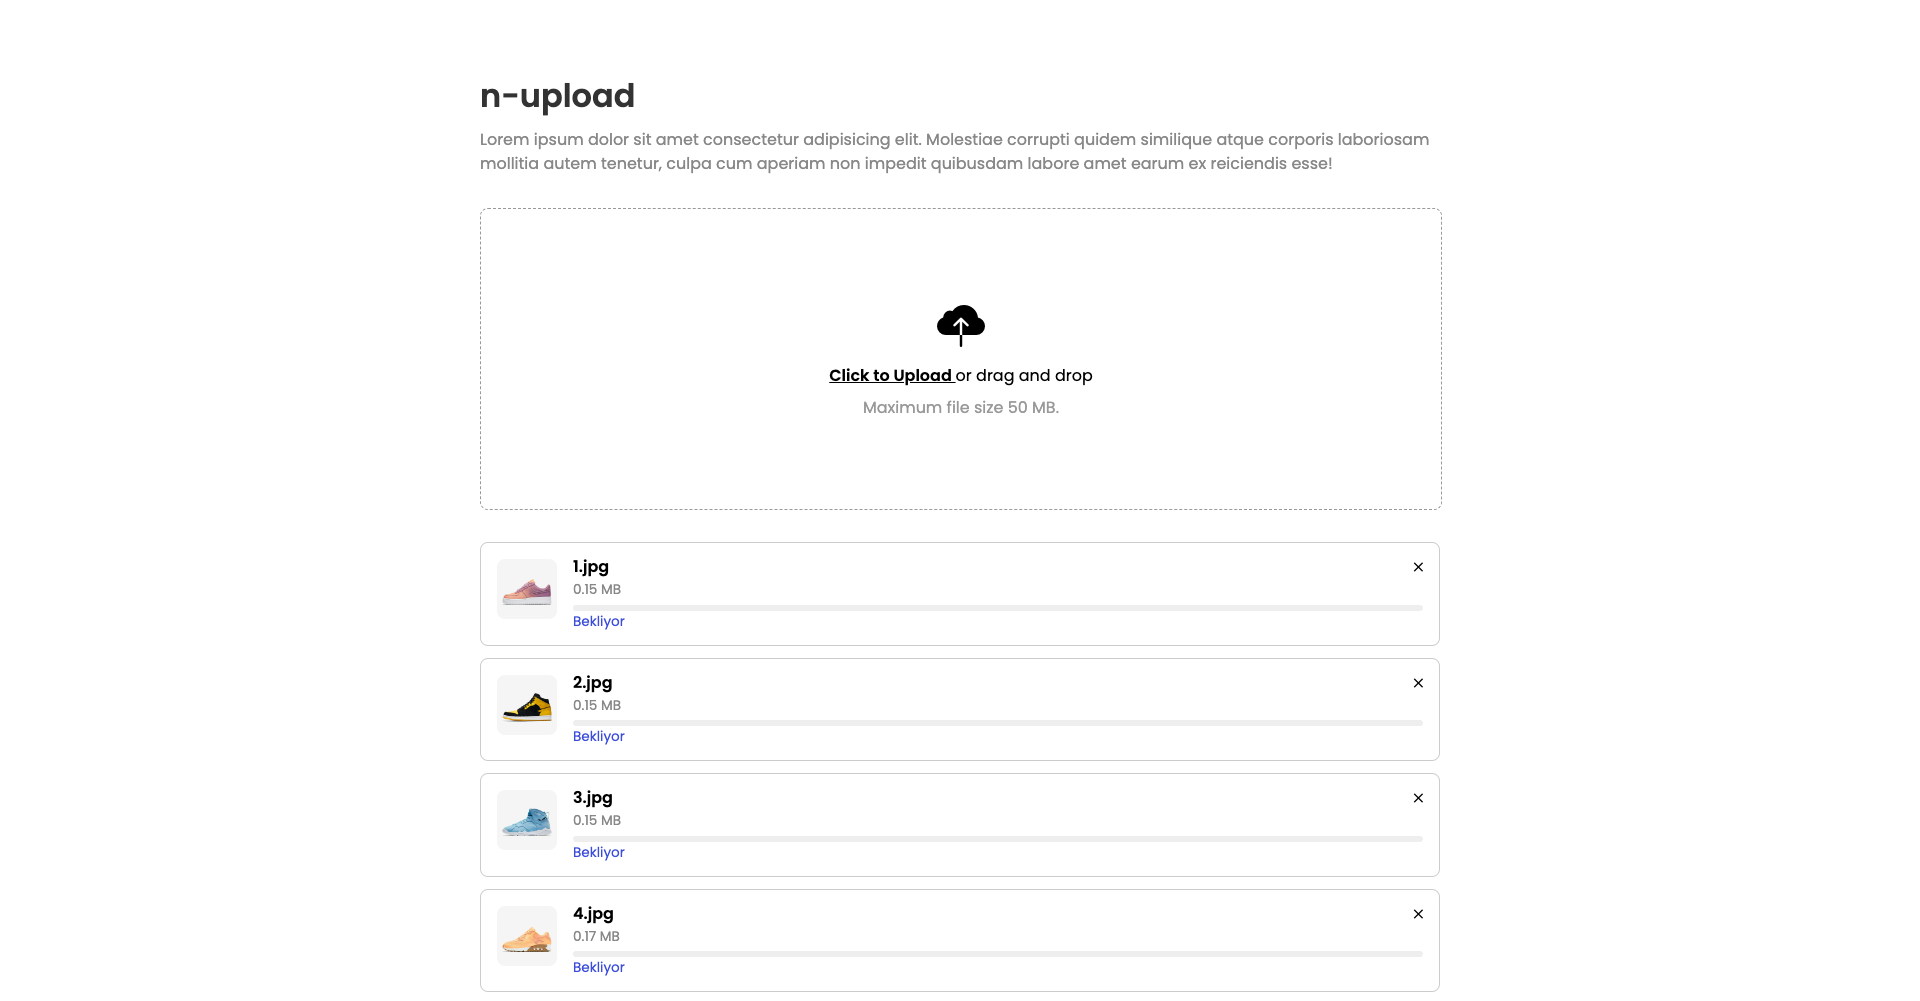
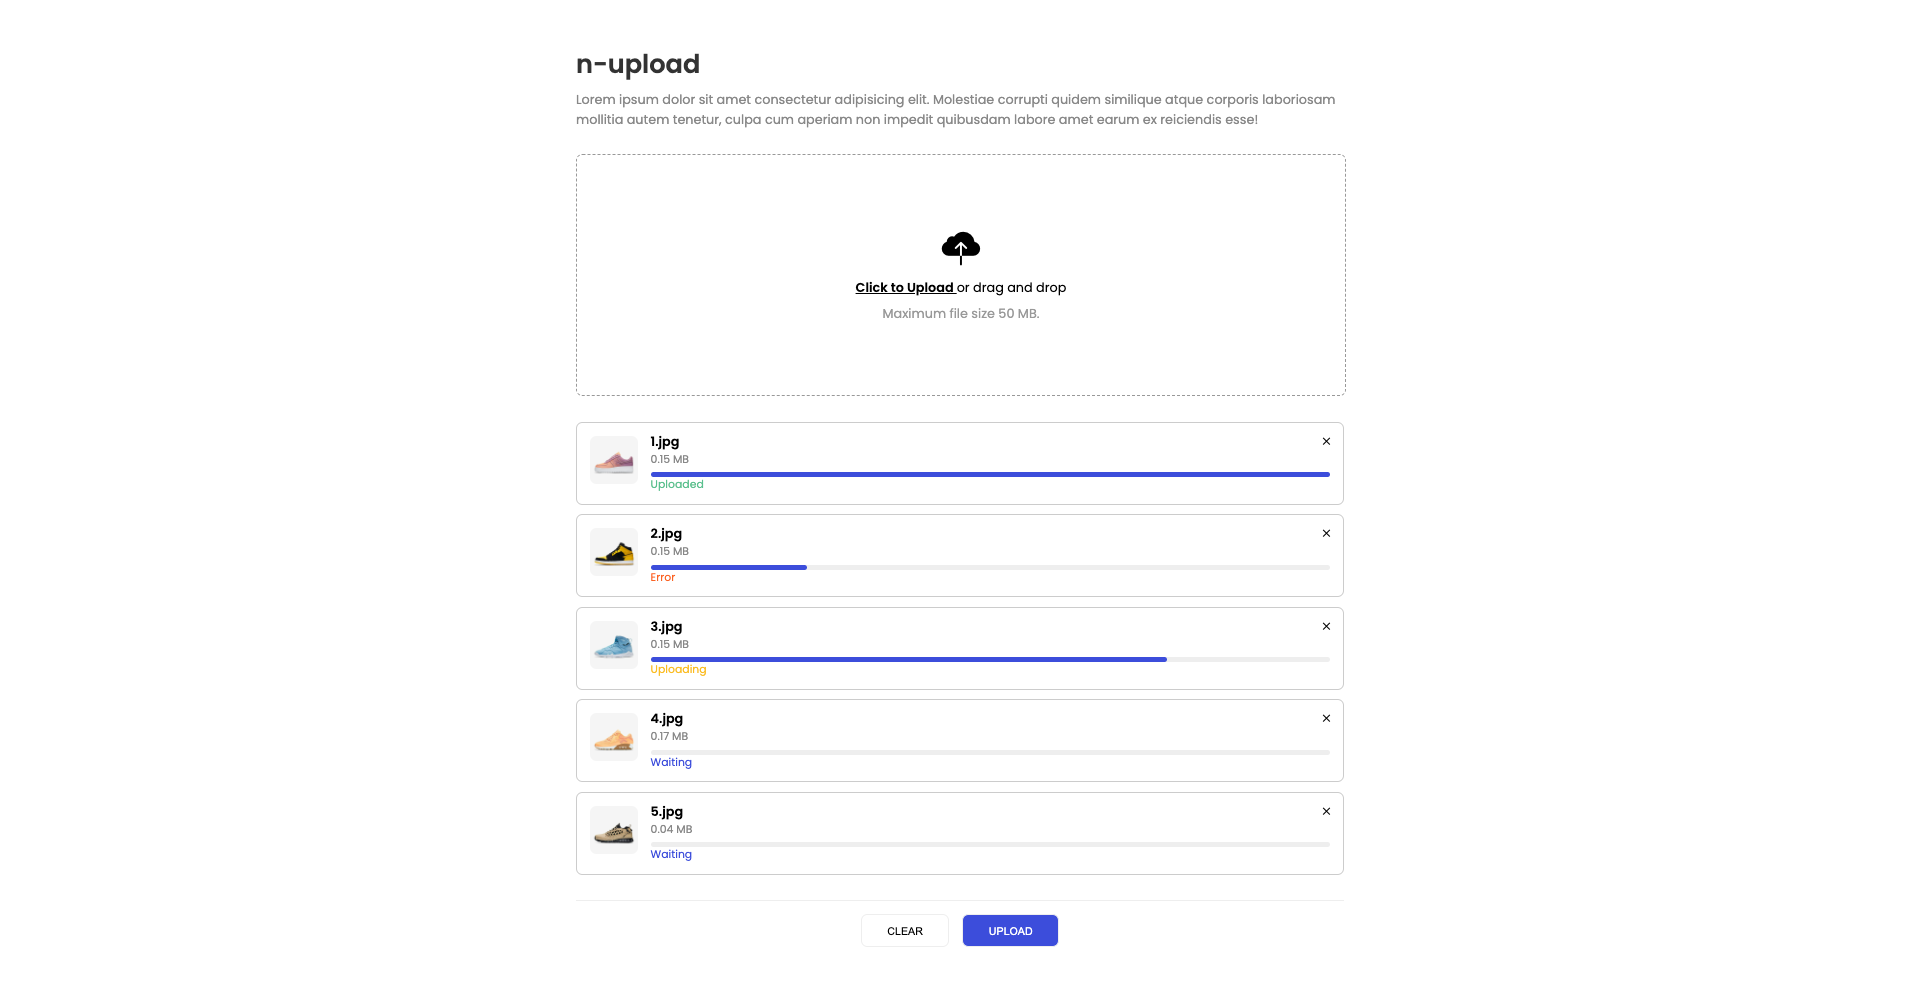
bug fix & changed screenshot

diff --git a/src/components/Upload.jsx b/src/components/Upload.jsx
@@ -4,10 +4,10 @@ import Progressbar from './Progressbar'
 import Button from "./Button"
 
 const PROCESS_STATUSES = {
-  waiting: 'Bekliyor',
-  uploading: 'Yükleniyor',
-  uploaded: 'Yüklendi',
-  error: 'Hata'
+  waiting: 'Waiting',
+  uploading: 'Uploading',
+  uploaded: 'Uploaded',
+  error: 'Error'
 }
 
 const NUpload = () => {
@@ -16,12 +16,12 @@ const NUpload = () => {
 
   const onChangeHandler = event => {
     const newFiles = [...event.target.files].map(file => {
-      return {
-        ...file,
-        preview: URL.createObjectURL(file),
-        uploadedSize: 0,
-        status: 'waiting'
-      };
+
+      file['preview'] = URL.createObjectURL(file)
+      file['uploadedSize'] = 0
+      file['status'] = 'waiting'
+
+      return file;
     })
     setFiles(newFiles)
   }
